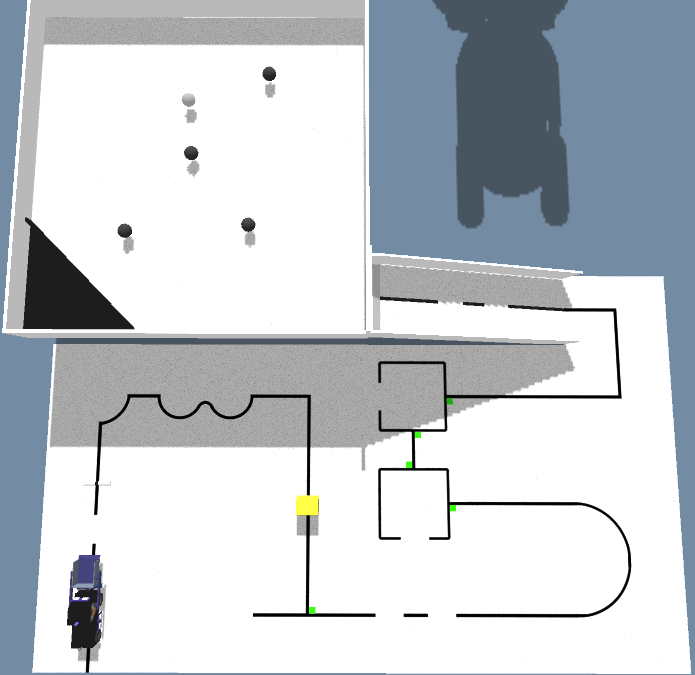
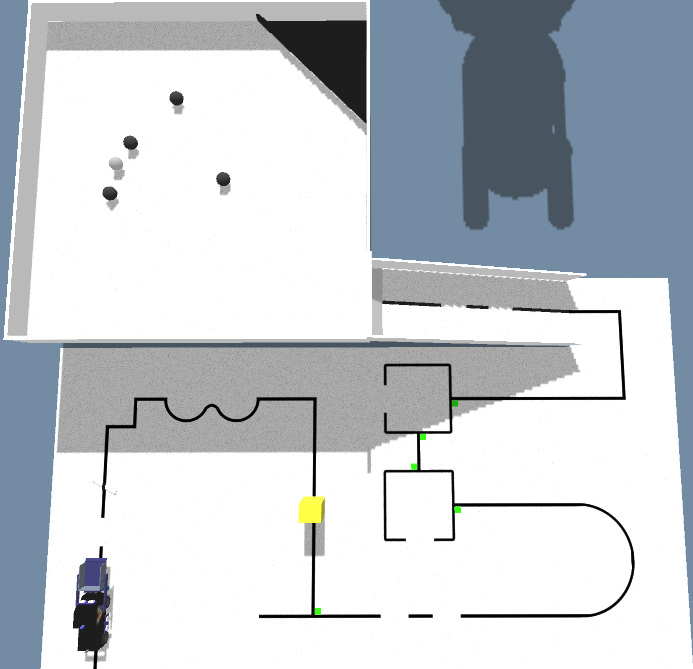
rodada 3 atualizada

diff --git a/README.md b/README.md
@@ -60,7 +60,7 @@ Arenas da etapa estadual da OBR 2020 modalidade prática simulação
 ### Rodada 3 (Pontuação máxima: 550)
 
 ```
-0000r0000,0010rw000,0020ch000,1020rY090,2020c1090,2010r4180,2000c5270,3000rx270,4000r0270,5000c0180,5010c0090,4010r0090,3010ce270,3020c4000,4020r0090,5020c1180,5,BoolTpFim: true,RobosPerm: 111111,BoolShowM: true,BoolMrcdr: true,BoolPrgso: true,BoolTSala: 2,BoolEndCd: false,HoraDoDia: 18,BoolSlnha: true,VtmsMrtas: 4,VtmsVivas: 1,Descricao: Rodada 3 - Primeiras estaduais,TempoMxmo: 3
+0000r0000,0010rz000,0020cf000,1020rY090,2020c1090,2010r4180,2000c5270,3000rx270,4000r0270,5000c0180,5010c0090,4010r0090,3010ce270,3020cl000,4020r0090,5020c1180,5,BoolTpFim: true,RobosPerm: 111111,BoolShowM: true,BoolMrcdr: true,BoolPrgso: true,BoolTSala: 2,BoolEndCd: false,HoraDoDia: 18,VtmsMrtas: 4,VtmsVivas: 1,Descricao: Rodada 3 - Primeiras estaduais,TempoMxmo: 3,BoolSlnha: true
 ```
 
 ![Imagem Rodada 3](Imagens/Nivel_2/Rodada_3.png)
